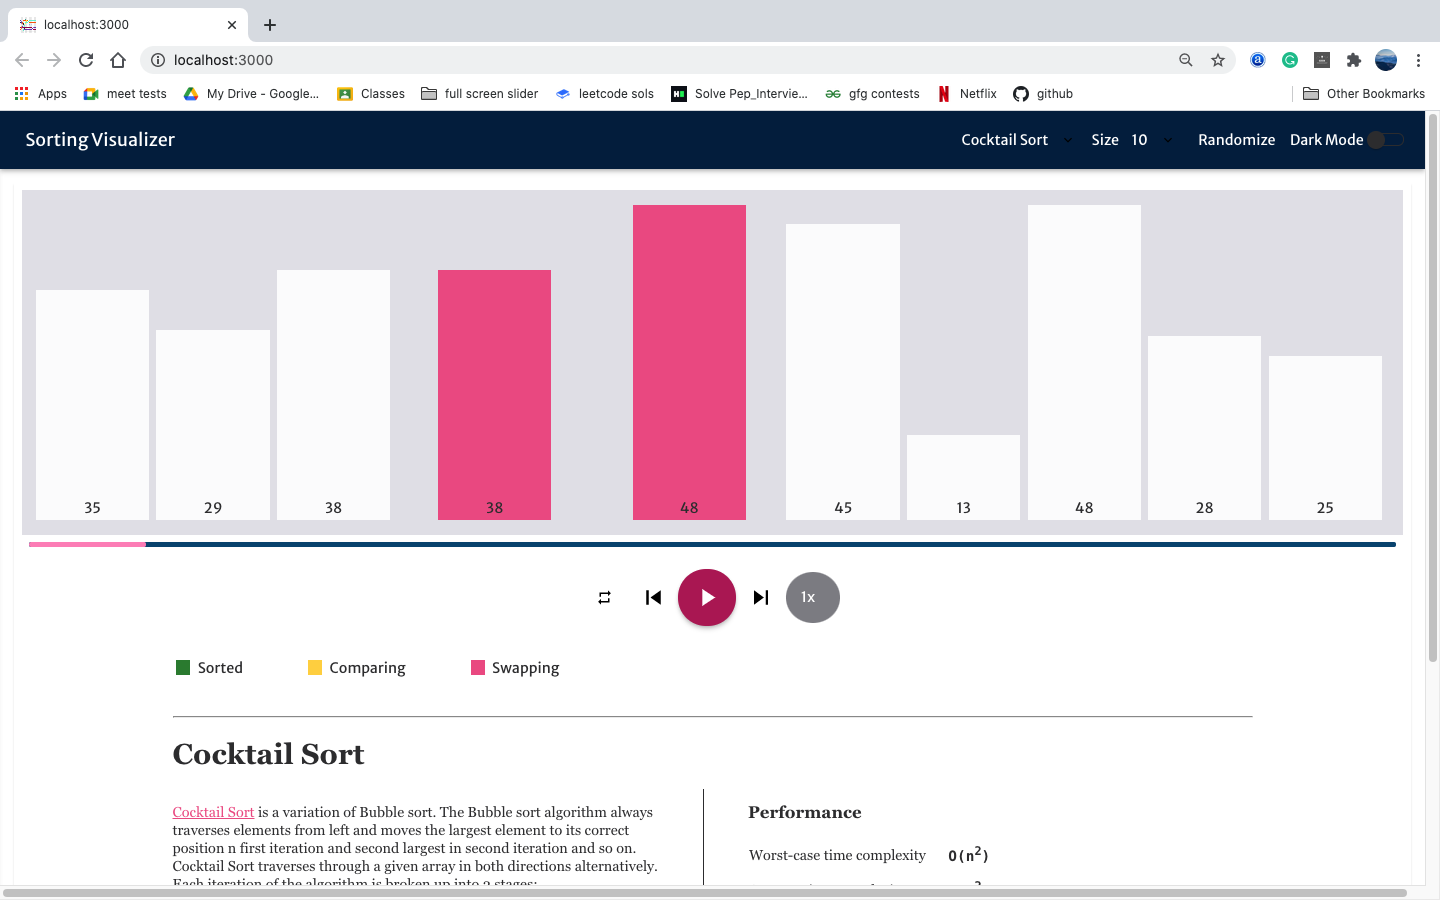
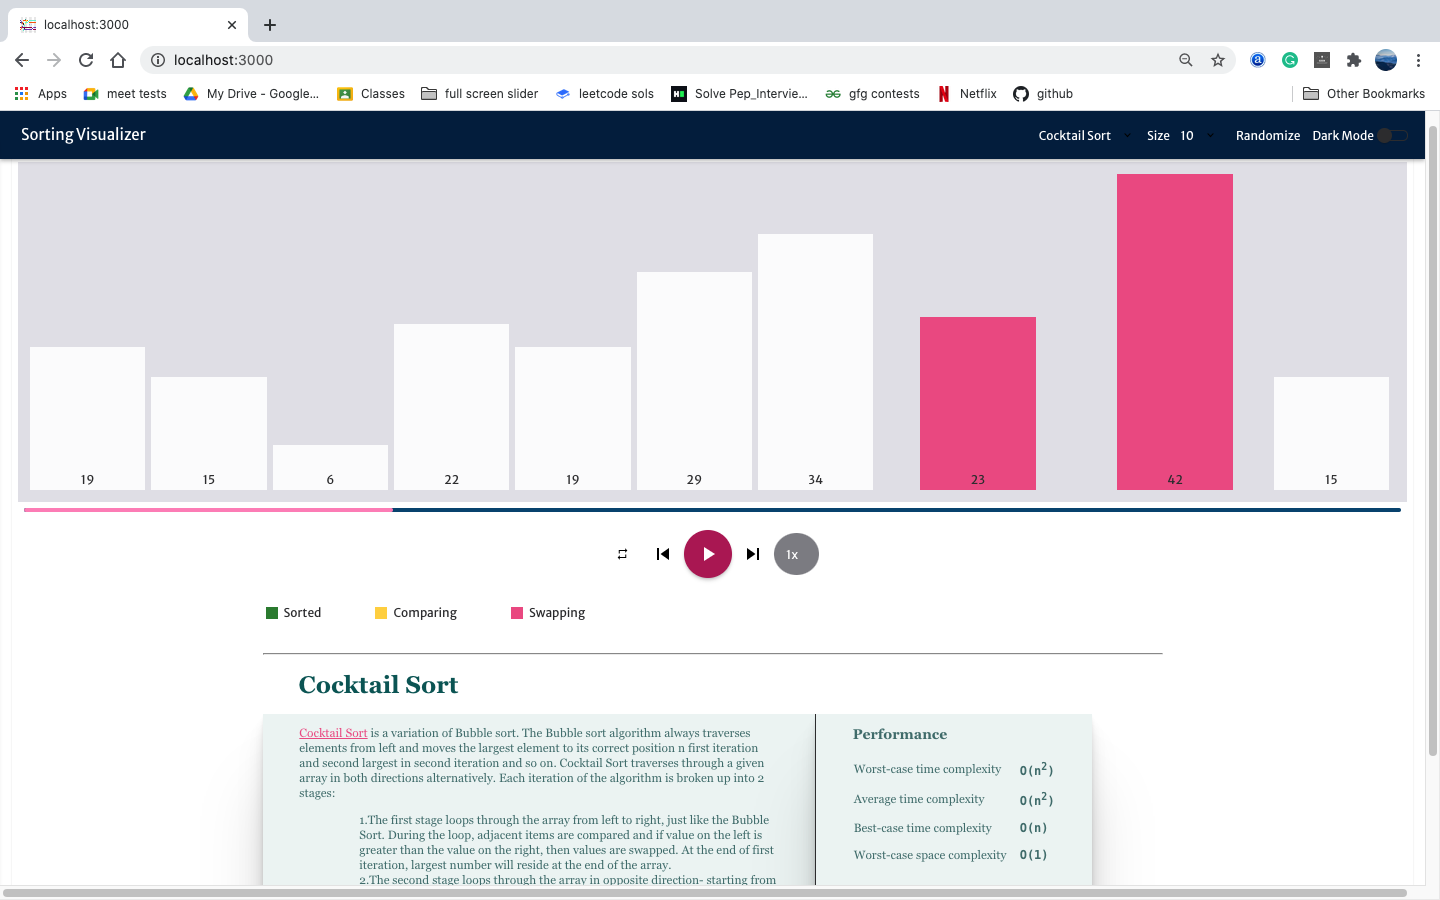
styling

diff --git a/src/components/molecules/SortInfo/style.css b/src/components/molecules/SortInfo/style.css
@@ -6,15 +6,33 @@
   padding: 1rem;
   margin: 0 auto;
 }
+.SortInfo h1{
+  margin-left:3rem;
 
+  color:#006666;
+}
 .SortInfo__Body {
   display: flex;
   flex-flow: row wrap;
+  
+
 }
 
+
 .SortInfo__Article {
-  width: 50ch;
+  padding-left: 5ch;
+  width: 60ch;
   line-height: 1.3;
+  background-color:#eff5f5;
+  color:#4f7d7d;
+  box-shadow:
+  0 2.8px 2.2px rgba(0, 0, 0, 0.034),
+  0 6.7px 5.3px rgba(0, 0, 0, 0.048),
+  0 12.5px 10px rgba(0, 0, 0, 0.06),
+  0 22.3px 17.9px rgba(0, 0, 0, 0.072),
+  0 41.8px 33.4px rgba(0, 0, 0, 0.086),
+  0 100px 80px rgba(0, 0, 0, 0.12);
+  
 }
 
 .SortInfo__Article li {
@@ -35,6 +53,7 @@
 
 .SortInfo__Aside h3 {
   margin: 1rem 0;
+  
 }
 
 .SortInfo__Aside code {
@@ -52,12 +71,23 @@
 /* Extra large devices (large desktops, 1200px and up) */
 @media (min-width: 1200px) {
   .SortInfo__Article {
-    width: 55ch;
+    width: 65ch;
     padding-right: 5ch;
   }
 
   .SortInfo__Aside {
     padding-left: 5ch;
+    padding-right: 5ch;
     border-left: 1px solid var(--text-color);
+    background-color:#eff5f5;
+  color:#4f7d7d;
+  box-shadow:
+  0 2.8px 2.2px rgba(0, 0, 0, 0.034),
+  0 6.7px 5.3px rgba(0, 0, 0, 0.048),
+  0 12.5px 10px rgba(0, 0, 0, 0.06),
+  0 22.3px 17.9px rgba(0, 0, 0, 0.072),
+  0 41.8px 33.4px rgba(0, 0, 0, 0.086),
+  0 100px 80px rgba(0, 0, 0, 0.12);
+  
   }
 }
